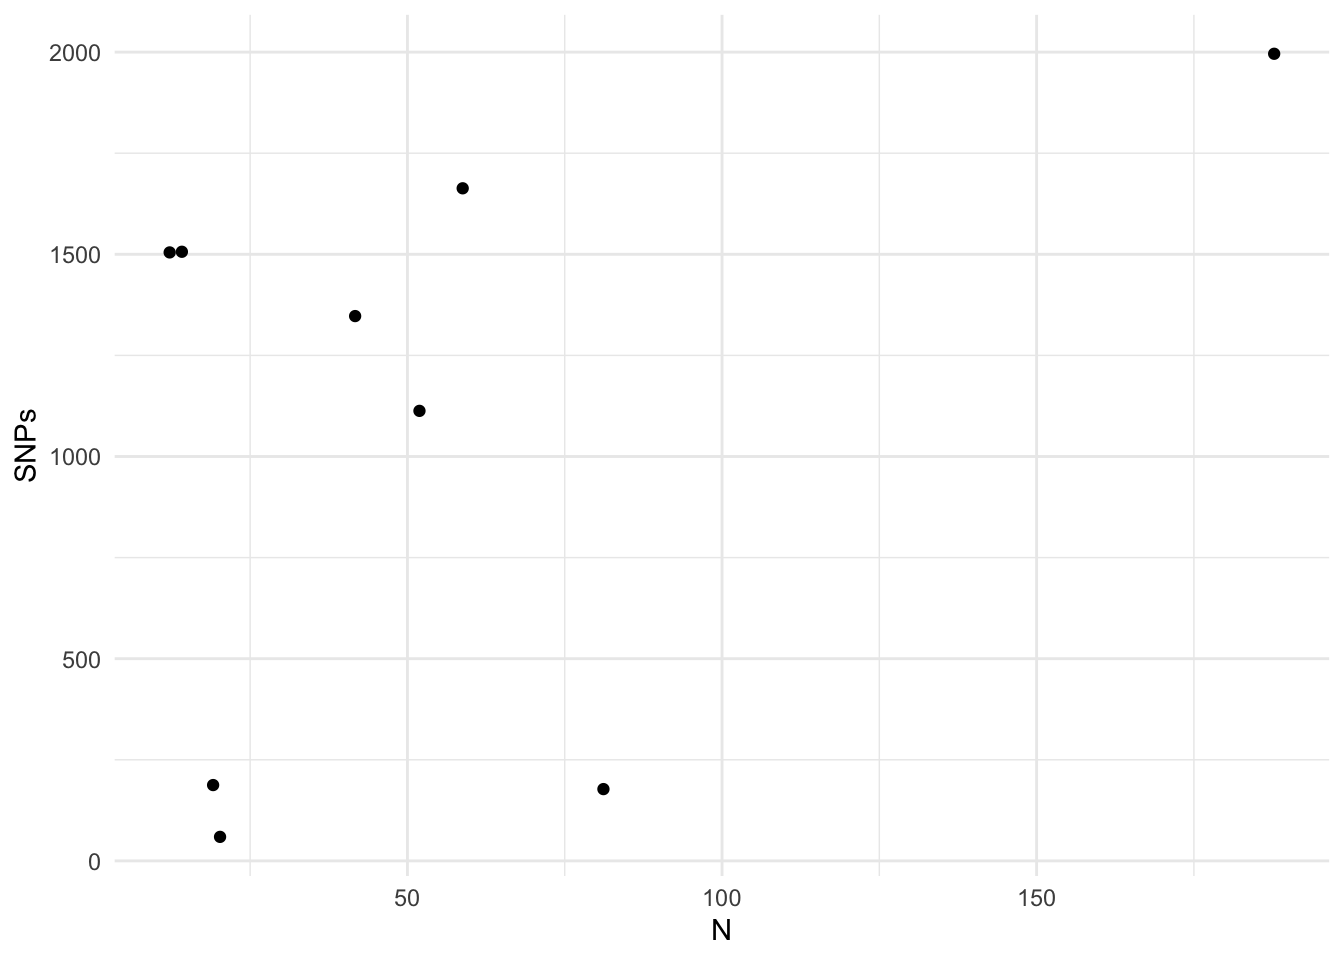
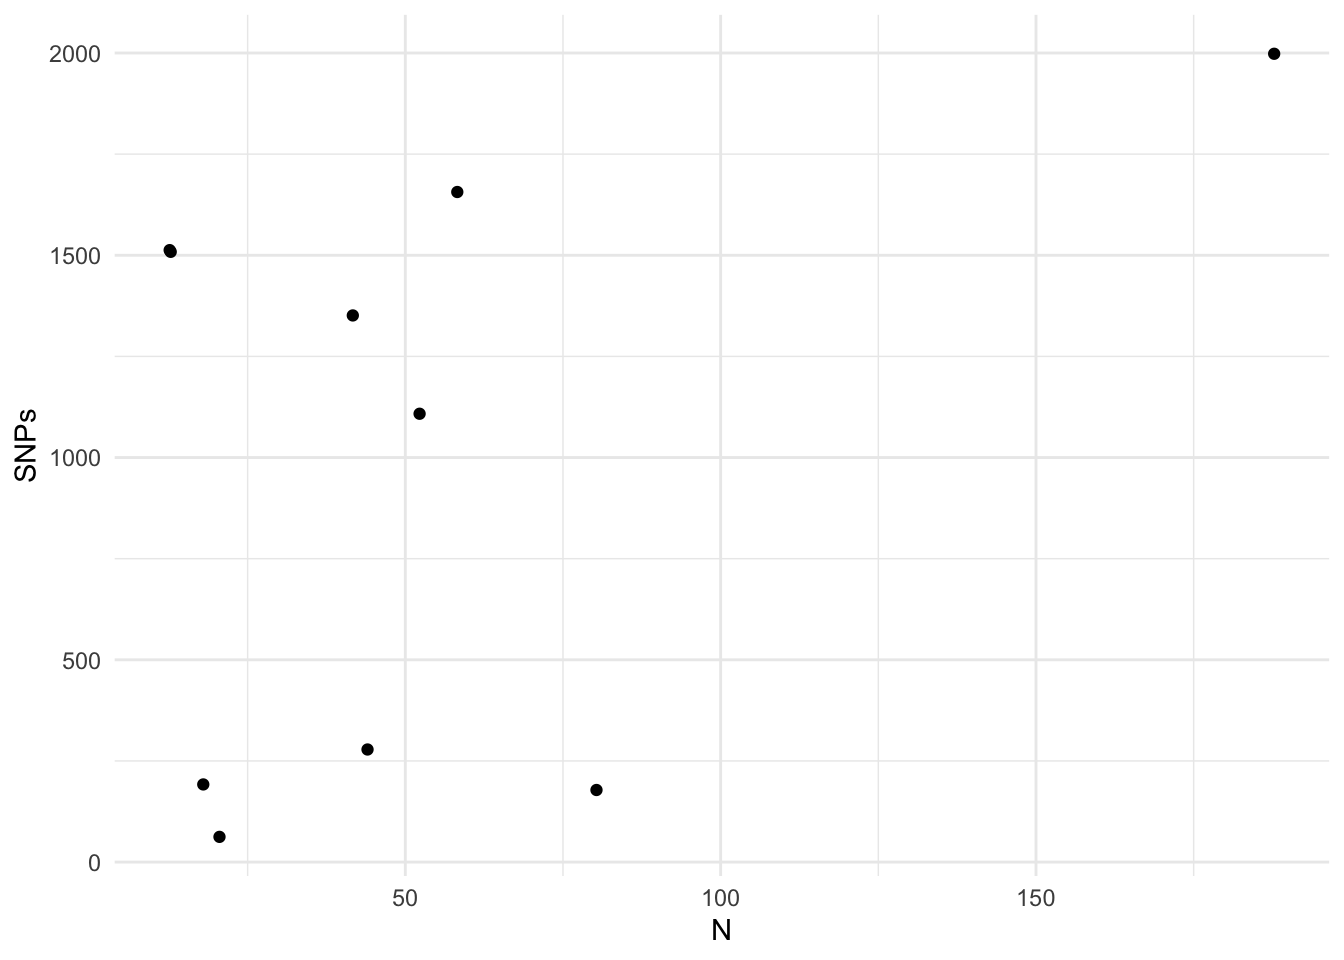
updating to 2023-02-15 status

diff --git a/_site/index.html b/_site/index.html
@@ -99,11 +99,11 @@ ul.task-list li input[type="checkbox"] {
 <link rel="stylesheet" href="styles.css">
 <meta property="og:title" content="dyerlab -">
 <meta property="og:description" content="The Dyer laboratory is a research lab at Virginia Commonwealth University that focuses on developing and testing tools to aid in understand how landscape features influence genetic connectivity.">
-<meta property="og:image" content="./posts/2023-01-31-5pct-dDocent-Run/featured.png">
+<meta property="og:image" content="./posts/2023-01-ddRADSeq-Progress/featured.png">
 <meta property="og:site-name" content="dyerlab">
 <meta name="twitter:title" content="dyerlab -">
 <meta name="twitter:description" content="The Dyer laboratory is a research lab at Virginia Commonwealth University that focuses on developing and testing tools to aid in understand how landscape features influence genetic connectivity.">
-<meta name="twitter:image" content="./posts/2023-01-31-5pct-dDocent-Run/featured.png">
+<meta name="twitter:image" content="./posts/2023-01-ddRADSeq-Progress/featured.png">
 <meta name="twitter:creator" content="@RodneyDyer">
 <meta name="twitter:site" content="@dyerlab">
 <meta name="twitter:card" content="summary_large_image">
@@ -216,7 +216,32 @@ ul.task-list li input[type="checkbox"] {
 
 <div class="quarto-listing quarto-listing-container-default" id="listing-listing">
 <div class="list quarto-listing-default">
-<div class="quarto-post image-right" data-index="0" data-listing-date-sort="1675141200000" data-listing-file-modified-sort="1676312072208" data-listing-reading-time-sort="1.05">
+<div class="quarto-post image-right" data-index="0" data-listing-date-sort="1676437200000" data-listing-file-modified-sort="1676486373168" data-listing-reading-time-sort="7.025">
+<div class="thumbnail">
+<p><a href="./posts/2023-01-ddRADSeq-Progress/index.html"> <img src="./posts/2023-01-ddRADSeq-Progress/featured.png" class="thumnail-image"> </a></p>
+</div>
+<div class="body">
+<a href="./posts/2023-01-ddRADSeq-Progress/index.html">
+<h3 class="no-anchor listing-title">
+Map of Content for ddRADSeq Project
+</h3>
+<div class="listing-subtitle">
+
+</div>
+<div class="listing-description">
+<p>This is an ongoing summary of progress on the ddRADSeq project. The beginning of 2023, we finally received the raw sequence data from the provider (total nightmare working with them—they actually lost all my samples). We are now conducting the bioinformatic processing of the data, which is substantial. This page will be updated as we go forward to reflect the current status of the project.</p>
+</div>
+</a>
+</div>
+<div class="metadata">
+<a href="./posts/2023-01-ddRADSeq-Progress/index.html">
+<div class="listing-date">
+Feb 15, 2023
+</div>
+</a>
+</div>
+</div>
+<div class="quarto-post image-right" data-index="1" data-listing-date-sort="1675141200000" data-listing-file-modified-sort="1676312072208" data-listing-reading-time-sort="1.05">
 <div class="thumbnail">
 <p><a href="./posts/2023-01-31-5pct-dDocent-Run/index.html"> <img src="./posts/2023-01-31-5pct-dDocent-Run/featured.png" class="thumnail-image"> </a></p>
 </div>
@@ -241,7 +266,7 @@ Jan 31, 2023
 </a>
 </div>
 </div>
-<div class="quarto-post image-right" data-index="1" data-listing-date-sort="1675054800000" data-listing-file-modified-sort="1676310899539" data-listing-reading-time-sort="1.98">
+<div class="quarto-post image-right" data-index="2" data-listing-date-sort="1675054800000" data-listing-file-modified-sort="1676310899539" data-listing-reading-time-sort="1.98">
 <div class="thumbnail">
 <p><a href="./posts/2023-01-30-2pt5pct-dDocent-Run/index.html"> <img src="./posts/2023-01-30-2pt5pct-dDocent-Run/image_1.png" class="thumnail-image"> </a></p>
 </div>
@@ -266,7 +291,7 @@ Jan 30, 2023
 </a>
 </div>
 </div>
-<div class="quarto-post image-right" data-index="2" data-listing-date-sort="1674795600000" data-listing-file-modified-sort="1676312624792" data-listing-reading-time-sort="1.755">
+<div class="quarto-post image-right" data-index="3" data-listing-date-sort="1674795600000" data-listing-file-modified-sort="1676312624792" data-listing-reading-time-sort="1.755">
 <div class="thumbnail">
 <p><a href="./posts/2023-01-27-10pct-dDocent-Run/index.html"> <img src="./posts/2023-01-27-10pct-dDocent-Run/featured.png" class="thumnail-image"> </a></p>
 </div>
@@ -291,7 +316,7 @@ Jan 27, 2023
 </a>
 </div>
 </div>
-<div class="quarto-post image-right" data-index="3" data-listing-date-sort="1674622800000" data-listing-file-modified-sort="1676312656699" data-listing-reading-time-sort="5.18">
+<div class="quarto-post image-right" data-index="4" data-listing-date-sort="1674622800000" data-listing-file-modified-sort="1676312656699" data-listing-reading-time-sort="5.18">
 <div class="thumbnail">
 <p><a href="./posts/2023-01-25-A-10Percent-Full-Data-Run/index.html"> <img src="./posts/2023-01-25-A-10Percent-Full-Data-Run/image_1.png" class="thumnail-image"> </a></p>
 </div>
@@ -316,7 +341,7 @@ Jan 25, 2023
 </a>
 </div>
 </div>
-<div class="quarto-post image-right" data-index="4" data-listing-date-sort="1674536400000" data-listing-file-modified-sort="1676309974451" data-listing-reading-time-sort="2.335">
+<div class="quarto-post image-right" data-index="5" data-listing-date-sort="1674536400000" data-listing-file-modified-sort="1676309974451" data-listing-reading-time-sort="2.335">
 <div class="thumbnail">
 <p><a href="./posts/2023-01-25-Second-dDocent-Run/index.html"> <img src="./posts/2023-01-25-Second-dDocent-Run/featured.jpg" class="thumnail-image"> </a></p>
 </div>
@@ -341,7 +366,7 @@ Jan 24, 2023
 </a>
 </div>
 </div>
-<div class="quarto-post image-right" data-index="5" data-listing-date-sort="1674277200000" data-listing-file-modified-sort="1676312848861" data-listing-reading-time-sort="0.28">
+<div class="quarto-post image-right" data-index="6" data-listing-date-sort="1674277200000" data-listing-file-modified-sort="1676312848861" data-listing-reading-time-sort="0.28">
 <div class="thumbnail">
 <p><a href="./posts/2023-01-21-First-dDocent-Run/index.html"> <img src="./posts/2023-01-21-First-dDocent-Run/featured.png" class="thumnail-image"> </a></p>
 </div>
@@ -366,7 +391,7 @@ Jan 21, 2023
 </a>
 </div>
 </div>
-<div class="quarto-post image-right" data-index="6" data-listing-date-sort="1674190800000" data-listing-file-modified-sort="1676311156712" data-listing-reading-time-sort="1.865">
+<div class="quarto-post image-right" data-index="7" data-listing-date-sort="1674190800000" data-listing-file-modified-sort="1676311156712" data-listing-reading-time-sort="1.865">
 <div class="thumbnail">
 <p><a href="./posts/2023-01-12-Right-Sizing-Sequences/index.html"> <img src="./posts/2023-01-12-Right-Sizing-Sequences/featured.png" class="thumnail-image"> </a></p>
 </div>
@@ -391,7 +416,7 @@ Jan 20, 2023
 </a>
 </div>
 </div>
-<div class="quarto-post image-right" data-index="7" data-listing-date-sort="1673845200000" data-listing-file-modified-sort="1676309173583" data-listing-reading-time-sort="0.005">
+<div class="quarto-post image-right" data-index="8" data-listing-date-sort="1673845200000" data-listing-file-modified-sort="1676309173583" data-listing-reading-time-sort="0.005">
 <div class="thumbnail">
 <a href="./posts/2023-01-16-Demultiplexing/index.html">
 <div class="thumbnail-image">
@@ -416,35 +441,6 @@ Demultiplexing
 <a href="./posts/2023-01-16-Demultiplexing/index.html">
 <div class="listing-date">
 Jan 16, 2023
-</div>
-</a>
-</div>
-</div>
-<div class="quarto-post image-right" data-index="8" data-listing-date-sort="1673758800000" data-listing-file-modified-sort="1676485133716" data-listing-reading-time-sort="7.025">
-<div class="thumbnail">
-<a href="./posts/2023-01-ddRADSeq-Progress/index.html">
-<div class="thumbnail-image">
-
-</div>
-</a><p><a href="./posts/2023-01-ddRADSeq-Progress/index.html"></a></p>
-</div>
-<div class="body">
-<a href="./posts/2023-01-ddRADSeq-Progress/index.html">
-<h3 class="no-anchor listing-title">
-Map of Content for ddRADSeq Project
-</h3>
-<div class="listing-subtitle">
-
-</div>
-<div class="listing-description">
-<p>This is an ongoing summary of progress on the ddRADSeq project.</p>
-</div>
-</a>
-</div>
-<div class="metadata">
-<a href="./posts/2023-01-ddRADSeq-Progress/index.html">
-<div class="listing-date">
-Jan 15, 2023
 </div>
 </a>
 </div>

diff --git a/_site/posts/2023-01-ddRADSeq-Progress/index.html b/_site/posts/2023-01-ddRADSeq-Progress/index.html
@@ -6,8 +6,8 @@
 
 <meta name="viewport" content="width=device-width, initial-scale=1.0, user-scalable=yes">
 
-<meta name="dcterms.date" content="2023-01-15">
-<meta name="description" content="This is an ongoing summary of progress on the ddRADSeq project.">
+<meta name="dcterms.date" content="2023-02-15">
+<meta name="description" content="This is an ongoing summary of progress on the ddRADSeq project. The beginning of 2023, we finally received the raw sequence data from the provider (total nightmare working with them—they actually lost all my samples). We are now conducting the bioinformatic processing of the data, which is substantial. This page will be updated as we go forward to reflect the current status of the project.">
 
 <title>dyerlab - Map of Content for ddRADSeq Project</title>
 <style>
@@ -132,12 +132,14 @@ code span.wa { color: #60a0b0; font-weight: bold; font-style: italic; } /* Warni
 <link rel="stylesheet" href="../../styles.css">
 <meta property="og:title" content="dyerlab - Map of Content for ddRADSeq Project">
 <meta property="og:description" content="This is an ongoing summary of progress on the ddRADSeq project.">
+<meta property="og:image" content="featured.png">
 <meta property="og:site-name" content="dyerlab">
 <meta name="twitter:title" content="dyerlab - Map of Content for ddRADSeq Project">
 <meta name="twitter:description" content="This is an ongoing summary of progress on the ddRADSeq project.">
+<meta name="twitter:image" content="featured.png">
 <meta name="twitter:creator" content="@RodneyDyer">
 <meta name="twitter:site" content="@dyerlab">
-<meta name="twitter:card" content="summary">
+<meta name="twitter:card" content="summary_large_image">
 </head>
 
 <body class="nav-fixed fullcontent">
@@ -177,7 +179,7 @@ code span.wa { color: #60a0b0; font-weight: bold; font-style: italic; } /* Warni
       <h1 class="title">Map of Content for ddRADSeq Project</h1>
                   <div>
         <div class="description">
-          <p>This is an ongoing summary of progress on the ddRADSeq project.</p>
+          <p>This is an ongoing summary of progress on the ddRADSeq project. The beginning of 2023, we finally received the raw sequence data from the provider (total nightmare working with them—they actually lost all my samples). We are now conducting the bioinformatic processing of the data, which is substantial. This page will be updated as we go forward to reflect the current status of the project.</p>
         </div>
       </div>
                 </div>
@@ -190,7 +192,7 @@ code span.wa { color: #60a0b0; font-weight: bold; font-style: italic; } /* Warni
       <div>
       <div class="quarto-title-meta-heading">Published</div>
       <div class="quarto-title-meta-contents">
-        <p class="date">January 15, 2023</p>
+        <p class="date">February 15, 2023</p>
       </div>
     </div>
     
@@ -208,6 +210,7 @@ code span.wa { color: #60a0b0; font-weight: bold; font-style: italic; } /* Warni
 
 
 
+<p><img src="featured.png" class="img-fluid"></p>
 <div class="cell">
 
 </div>
@@ -349,6 +352,16 @@ code span.wa { color: #60a0b0; font-weight: bold; font-style: italic; } /* Warni
    <td style="text-align:right;"> 10891 </td>
    <td style="text-align:right;"> 1113 </td>
    <td style="text-align:left;">  </td>
+  </tr>
+  <tr>
+   <td style="text-align:left;"> O </td>
+   <td style="text-align:right;"> 44 </td>
+   <td style="text-align:left;"> 2023-01-23 </td>
+   <td style="text-align:left;"> 2023-01-31 </td>
+   <td style="text-align:left;"> 2023-02-15 </td>
+   <td style="text-align:right;"> 11338 </td>
+   <td style="text-align:right;"> 282 </td>
+   <td style="text-align:left;"> Rerun FreeBayes </td>
   </tr>
   <tr>
    <td style="text-align:left;"> Q </td>
@@ -501,23 +514,13 @@ code span.wa { color: #60a0b0; font-weight: bold; font-style: italic; } /* Warni
    <td style="text-align:left;">  </td>
   </tr>
   <tr>
-   <td style="text-align:left;"> O </td>
-   <td style="text-align:right;"> 44 </td>
-   <td style="text-align:left;"> 2023-01-23 </td>
-   <td style="text-align:left;"> 2023-01-31 </td>
-   <td style="text-align:left;">  </td>
-   <td style="text-align:right;">  </td>
-   <td style="text-align:right;">  </td>
-   <td style="text-align:left;">  </td>
-  </tr>
-  <tr>
    <td style="text-align:left;"> Summary </td>
    <td style="text-align:right;"> 67 </td>
    <td style="text-align:left;">  </td>
    <td style="text-align:left;">  </td>
    <td style="text-align:left;">  </td>
-   <td style="text-align:right;"> 10379 </td>
-   <td style="text-align:right;"> 1061 </td>
+   <td style="text-align:right;"> 10475 </td>
+   <td style="text-align:right;"> 984 </td>
    <td style="text-align:left;">  </td>
   </tr>
 </tbody>
